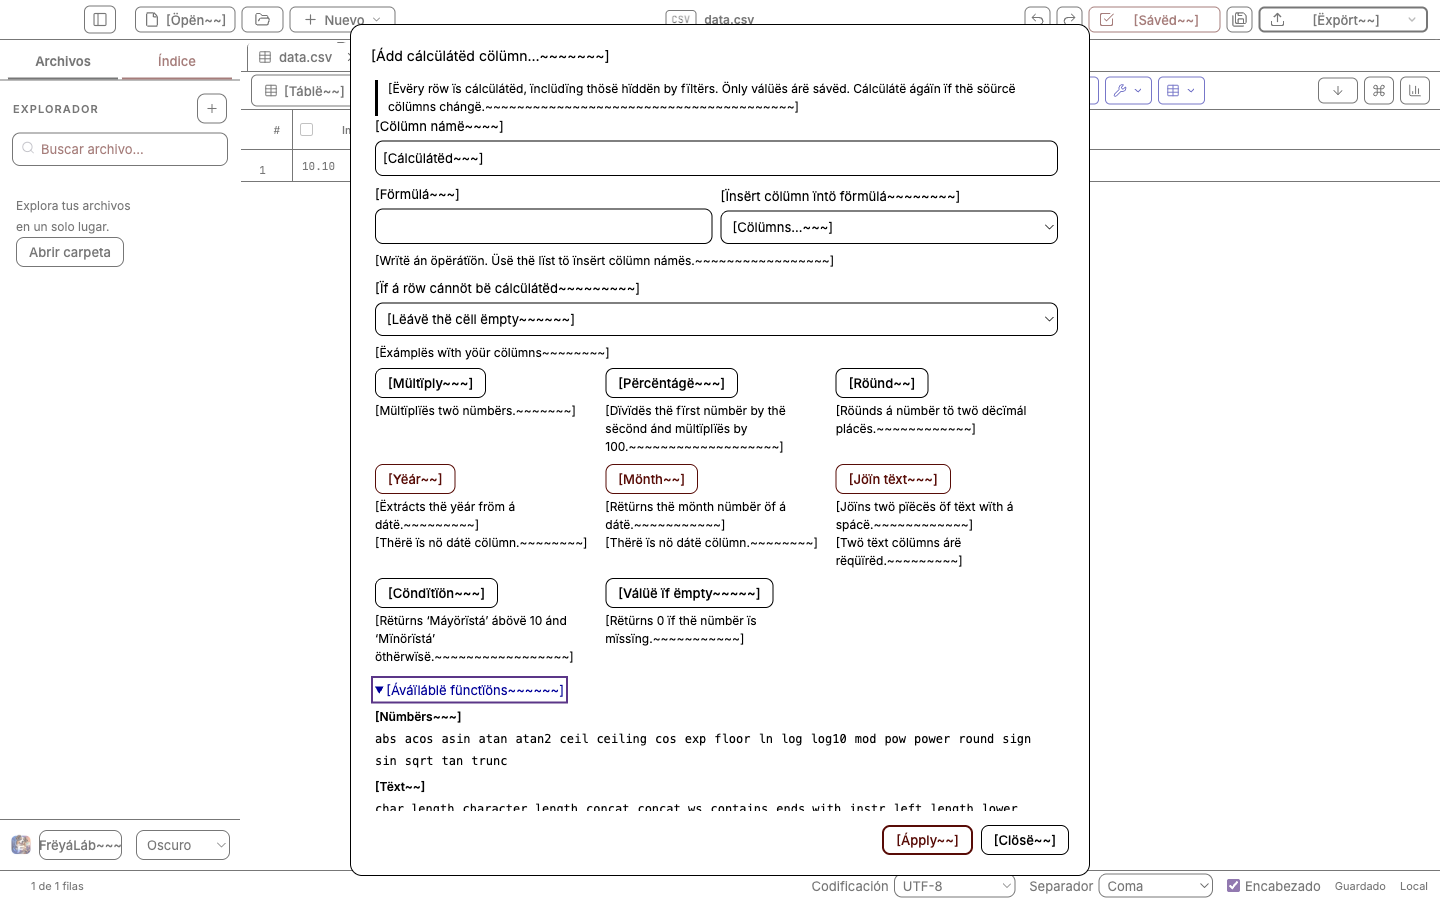
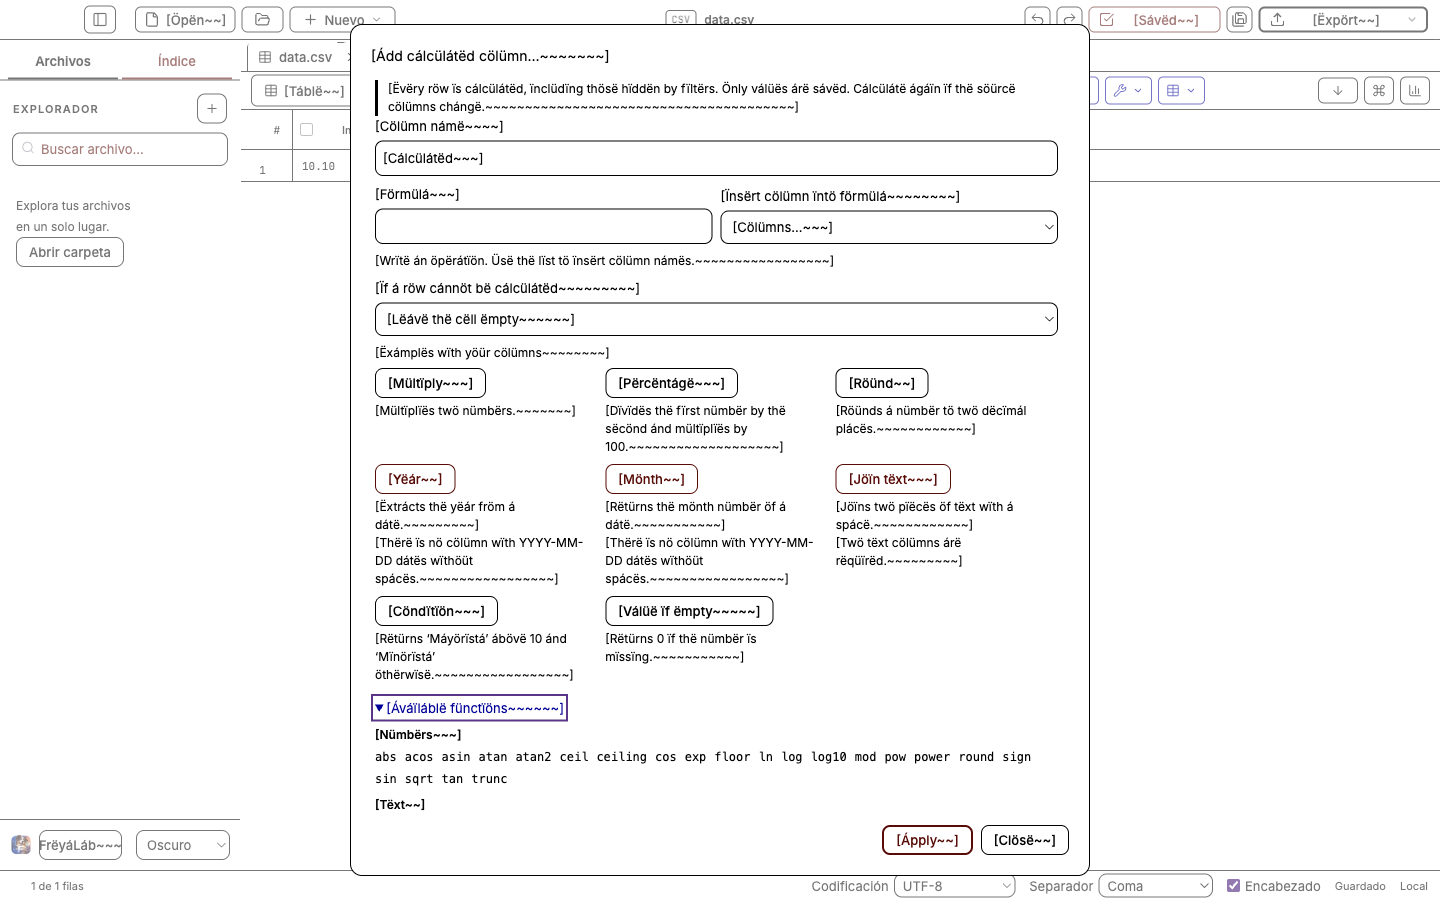
fix(csv): detener perfiles ocultos y sugerir fechas compatibles con fórmulas

Changed region(s): [[0.25, 0.5911, 0.7188, 0.9022], [0.5, 0.8711, 0.5312, 0.9022]]

diff --git a/tests/e2e/structure.spec.ts b/tests/e2e/structure.spec.ts
@@ -174,6 +174,58 @@ test('H15-2: los ocho ejemplos eligen columnas, ajustan la lectura y calculan',a
  expect(await readFile(path,'utf8')).toBe(source)
 })
 
+test('H15-2: dejar Resumen cancela su perfilado y permite preparar la fórmula',async()=>{
+ const source='Precio,Cantidad,Fecha,Nombre,Apellido\n10.10,2,2026-02-04,Ana,López\n'
+ const {path}=await open(source)
+ const views=page.locator('[data-csv-view]')
+ type Gate={chartRequest?:string;cancelled:boolean;release?:()=>void;restore:()=>void}
+ await app.evaluate(({ipcMain})=>{
+  type Handler=(event:Electron.IpcMainInvokeEvent,...args:unknown[])=>Promise<unknown>
+  const handlers=(ipcMain as Electron.IpcMain&{_invokeHandlers:Map<string,Handler>})._invokeHandlers
+  const original=handlers.get('freya');if(!original)throw new Error('No existe el manejador real de freya')
+  const state=globalThis as typeof globalThis&{__calculationProfileGate?:Gate}
+  const gate:Gate={cancelled:false,restore:()=>handlers.set('freya',original)}
+  state.__calculationProfileGate=gate
+  // Retiene la primera respuesta real de Gráficos hasta cambiar de vista. El diálogo usa bins:1.
+  handlers.set('freya',async(event,operation,...args)=>{
+   const request=args[1] as {bins:number;requestId:string}|undefined
+   if(operation==='analyzeColumn'&&request?.bins===10&&!gate.chartRequest){
+    const result=await original(event,operation,...args)
+    gate.chartRequest=request.requestId
+    await new Promise<void>(release=>{gate.release=release})
+    return result
+   }
+   if(operation==='cancelAnalysis'&&args[1]===gate.chartRequest)gate.cancelled=true
+   return original(event,operation,...args)
+  })
+ })
+ const gateState=()=>app.evaluate(()=>{
+  const gate=(globalThis as typeof globalThis&{__calculationProfileGate?:Gate}).__calculationProfileGate
+  return {held:!!gate?.chartRequest,cancelled:!!gate?.cancelled}
+ })
+ try{
+  await views.getByRole('button',{name:'Resumen y gráfico',exact:true}).click()
+  await expect.poll(gateState).toEqual({held:true,cancelled:false})
+  await views.getByRole('button',{name:'Tabla',exact:true}).click()
+  await expect.poll(gateState).toEqual({held:true,cancelled:true})
+  const panel=await calculationDialog()
+  await app.evaluate(()=>{(globalThis as typeof globalThis&{__calculationProfileGate?:Gate}).__calculationProfileGate?.release?.()})
+  await panel.getByRole('button',{name:'Multiplicar',exact:true}).click()
+  await panel.getByRole('button',{name:'Vista previa',exact:true}).press('Enter')
+  await expect(panel.getByRole('status')).toContainText('Vista previa lista')
+  await expect(panel.getByRole('table')).toContainText('20.20')
+  await page.keyboard.press('Escape')
+  await views.getByRole('button',{name:'Resumen y gráfico',exact:true}).click()
+  await expect(page.locator('.pivot-result')).toBeVisible()
+  expect(await readFile(path,'utf8')).toBe(source)
+ }finally{
+  await app.evaluate(()=>{
+   const state=globalThis as typeof globalThis&{__calculationProfileGate?:Gate}
+   state.__calculationProfileGate?.release?.();state.__calculationProfileGate?.restore();delete state.__calculationProfileGate
+  }).catch(()=>{})
+ }
+})
+
 test('H15-2: el encabezado inserta a su derecha y distingue vacío de campo ausente',async()=>{
  const source='ID,Precio,Nota\n1,7,\n2\n', {doc,path}=await open(source)
  await expect(page.getByRole('gridcell',{name:'Fila 1, ID',exact:true})).toBeVisible()

diff --git a/src/main/table-analysis.ts b/src/main/table-analysis.ts
@@ -21,6 +21,7 @@ export async function analyzeColumn(rows:TableRow[],indices:number[]|undefined,r
  // shortcut: hasta 100 000 claves exactas en memoria; usar el motor analítico antes de ampliar la cardinalidad.
  const counts=new Map<string,{count:number;firstRow:number;rowId:string}>()
  let empty=0,missing=0,whitespace=0,leadingZeros=0,minLength=Infinity,maxLength=0,dates=0,invalidDates=0,unsafeIntegers=0,identifierZeros=0,decimalPlaces=0
+ let dateReadCompatible=true
  for(let i=0;i<cells;i++){
   const index=indices?indices[i]:i,row=rows[index],value=row.cells[request.column]??'',trimmed=value.trim(),parsed=numeric(value),n=parsed!==null&&(!Number.isInteger(parsed)||Number.isSafeInteger(parsed))?parsed:null
   const found=counts.get(value);if(found)found.count++;else{if(counts.size>=100000)throw new Error('La columna supera 100 000 valores distintos. Filtra los datos antes de explorarla.');counts.set(value,{count:1,firstRow:index+1,rowId:row.id})}
@@ -29,7 +30,13 @@ export async function analyzeColumn(rows:TableRow[],indices:number[]|undefined,r
   if(value.length&&!value.trim())whitespace++
   if(/^[+-]?0\d/.test(trimmed)){leadingZeros++;if(parsed!==null)identifierZeros++}
   if(parsed!==null&&Number.isInteger(parsed)&&!Number.isSafeInteger(parsed))unsafeIntegers++
-  if(/^\d{4}-\d{2}-\d{2}$/.test(trimmed)){if(!trimmed.startsWith('0000-')&&isoDate(trimmed))dates++;else invalidDates++}
+  if(/^\d{4}-\d{2}-\d{2}$/.test(trimmed)){
+   if(!trimmed.startsWith('0000-')&&isoDate(trimmed)){
+    dates++
+    // Los gráficos toleran espacios, pero la lectura explícita de fechas en fórmulas exige ISO exacto.
+    if(value!==trimmed)dateReadCompatible=false
+   }else invalidDates++
+  }
   minLength=Math.min(minLength,value.length);maxLength=Math.max(maxLength,value.length)
   if(n!==null){
    values.push(n)
@@ -54,7 +61,7 @@ export async function analyzeColumn(rows:TableRow[],indices:number[]|undefined,r
  else if(dates===nonEmpty)kind='date'
  else if(values.length||dates||invalidDates)kind='mixed'
  else if(distinctNonEmpty<=20&&distinctNonEmpty<nonEmpty)kind='category'
- const profile={kind,dates,invalidDates,unsafeIntegers,identifierZeros,headerHint,distinctNonEmpty,...kind==='number'?{decimalPlaces}:{}}
+ const profile={kind,dates,invalidDates,unsafeIntegers,identifierZeros,headerHint,distinctNonEmpty,...kind==='number'?{decimalPlaces}:kind==='date'?{dateReadCompatible}:{}}
  const warnings:string[]=[],histogram:ColumnAnalysis['histogram']=[]
  const statistics=descriptive(values)
  if(values.length){

diff --git a/src/shared/types.ts b/src/shared/types.ts
@@ -38,7 +38,7 @@ export type TableEdit = TableRangeEdit | TableTransformEdit | {type:'cell'; rowI
 export interface TableStatsOptions {requestId:string;revision:number;range?:TableRange}
 export interface TableStats { revision:number;sample:boolean;missing:number;whitespace:number;excluded:number;median:number|null;deviation:number|null;sampleDeviation:number|null;variance:number|null;sampleVariance:number|null;percentile10:number|null;percentile25:number|null;percentile75:number|null;percentile90:number|null;cells:number; empty:number; unique:number; numeric:number; sum:number|null; min:number|null; max:number|null; average:number|null }
 export interface ColumnAnalysisRequest {column:number;otherColumn?:number;query?:TableQuery;revision:number;requestId:string;frequencyOffset:number;duplicatesOnly:boolean;bins:number}
-export interface ColumnProfile {kind:'empty'|'identifier'|'number'|'date'|'category'|'text'|'mixed';dates:number;invalidDates:number;unsafeIntegers:number;identifierZeros:number;headerHint:boolean;distinctNonEmpty:number;decimalPlaces?:number}
+export interface ColumnProfile {kind:'empty'|'identifier'|'number'|'date'|'category'|'text'|'mixed';dates:number;invalidDates:number;unsafeIntegers:number;identifierZeros:number;headerHint:boolean;distinctNonEmpty:number;decimalPlaces?:number;dateReadCompatible?:boolean}
 export interface ColumnAnalysis {
  profile:ColumnProfile;
  revision:number;sample:boolean;filtered:boolean;column:number;cells:number;empty:number;missing:number;whitespace:number;numeric:number;excluded:number;leadingZeros:number;unique:number;duplicateGroups:number;duplicateRows:number;extraDuplicates:number;minLength:number;maxLength:number;

diff --git a/tests/column-analysis.test.ts b/tests/column-analysis.test.ts
@@ -82,7 +82,8 @@ it.each([
  {name:'texto numérico y exponentes',header:'Medida',values:[' 1.25 ','-2','1e2','.5'],kind:'number',evidence:{distinctNonEmpty:4,decimalPlaces:2}},
  {name:'escala de los decimales escritos',header:'Medida',values:['10.10','0.1','1.20e-3'],kind:'number',evidence:{decimalPlaces:5}},
  {name:'escala máxima de una fórmula',header:'Medida',values:['1e-20'],kind:'number',evidence:{decimalPlaces:12}},
- {name:'calendario válido',header:'Fecha',values:['2024-02-29','0001-01-01','9999-12-31',' 2026-10-22 '],kind:'date',evidence:{dates:4,identifierZeros:0}},
+ {name:'calendario válido para fórmulas',header:'Fecha',values:['2024-02-29','0001-01-01','9999-12-31',''],kind:'date',evidence:{dates:3,identifierZeros:0,dateReadCompatible:true}},
+ {name:'calendario con espacios, válido solo para análisis',header:'Fecha',values:['2024-02-29',' 2026-10-22 '],kind:'date',evidence:{dates:2,dateReadCompatible:false}},
  {name:'calendario inválido',header:'Fecha',values:['2025-02-29','2026-02-30','0000-01-01','2026-13-01'],kind:'mixed',evidence:{dates:0,invalidDates:4}},
  {name:'fecha válida e inválida',header:'Fecha',values:['2024-02-29','2025-02-29'],kind:'mixed',evidence:{dates:1,invalidDates:1}},
  {name:'fecha ambigua y timestamp',header:'Fecha',values:['01/02/2026','2026-10-22T10:30:00Z'],kind:'text',evidence:{dates:0,invalidDates:0}},

diff --git a/src/shared/calculation-help.ts b/src/shared/calculation-help.ts
@@ -22,10 +22,11 @@ const patterns=[
  ['fill','number',1,a=>`coalesce(${a}, 0)`],
 ] as const satisfies readonly (readonly [string,ColumnRead['read'],number,(a:string,b:string)=>string])[]
 
-export function calculationExamples(fields:readonly {index:number;name:string}[],profiles:Readonly<Record<number,Pick<ColumnProfile,'kind'|'decimalPlaces'>|null>>){
+export function calculationExamples(fields:readonly {index:number;name:string}[],profiles:Readonly<Record<number,Pick<ColumnProfile,'kind'|'decimalPlaces'|'dateReadCompatible'>|null>>){
  const candidates={number:[],date:[],text:[]} as Record<ColumnRead['read'],{index:number;name:string}[]>
  for(const field of fields){
-  const kind=profiles[field.index]?.kind
+  const profile=profiles[field.index],kind=profile?.kind
+  if(kind==='date'&&profile?.dateReadCompatible===false)continue
   if(kind==='number'||kind==='date'||kind==='text'||kind==='category')candidates[kind==='category'?'text':kind].push(field)
  }
  return patterns.map(([id,read,count,format])=>{

diff --git a/src/renderer/components/CsvCharts.svelte b/src/renderer/components/CsvCharts.svelte
@@ -135,7 +135,15 @@
    if(initializedDocument!==id){const first=initialChart($state.snapshot(columns));if(first)options=first;initializedDocument=id}
   }finally{if(token===fieldGeneration){fieldJob=undefined;fieldsLoading=false}}
  }
- $effect(()=>{const revision=JSON.stringify([doc.id,doc.revision,doc.headers]);if(visible&&revision!==fieldRevision){fieldRevision=revision;untrack(()=>void loadFields())}})
+ $effect(()=>{
+  if(!visible){
+   // El resumen oculto no debe reemplazar la solicitud de análisis de la tabla.
+   if(fieldJob){fieldRevision=undefined;untrack(cancelFields)}
+   return
+  }
+  const revision=JSON.stringify([doc.id,doc.revision,doc.headers])
+  if(revision!==fieldRevision){fieldRevision=revision;untrack(()=>void loadFields())}
+ })
  function addField(zone:ChartZone,column:number){
   const previous=zoneFields(options)[zone],name=columnLabel(column)
   options=addToZone($state.snapshot(options),zone,column,$state.snapshot(columns))

diff --git a/tests/calculation-help.test.ts b/tests/calculation-help.test.ts
@@ -30,3 +30,10 @@ it('nunca toma identificadores, datos mixtos o columnas sin perfil para completa
  expect(examples.filter(example=>example.recipe).map(example=>example.id)).toEqual(['round','condition','fill'])
  expect(examples.find(example=>example.id==='year')).toMatchObject({reason:'date1',recipe:undefined})
 })
+
+it('omite una fecha con espacios que la lectura de fórmulas rechazaría',()=>{
+ const fields=sqlColumns(['Fecha con espacios','Fecha ISO'])
+ const profiles={0:{kind:'date',dateReadCompatible:false},1:{kind:'date',dateReadCompatible:true}} as const
+ expect(calculationExamples(fields,profiles).find(example=>example.id==='year')?.recipe?.expression).toBe('year("Fecha ISO")')
+ expect(calculationExamples(fields.slice(0,1),profiles).find(example=>example.id==='month')?.recipe).toBeUndefined()
+})

diff --git a/docs/evidence/h15-2-ayuda-formulas-2026-11-09.md b/docs/evidence/h15-2-ayuda-formulas-2026-11-09.md
@@ -8,6 +8,8 @@ Base de la entrega `5a256a91bd454681f4e13b45ce9477f3eb4f1db1`. [Alcance y respue
 | --- | --- | --- |
 | Ejemplos y decimales | Faltaban el catálogo de ejemplos, los botones y la sugerencia de escala. | Los ocho ejemplos eligen columnas reales y calculan resultados comprobados en Electron. Las unitarias cubren escala decimal, nombres con comillas y columnas de tipo incompatible. |
 | Encabezado y paleta | El encabezado y la paleta carecían de la acción de cálculo. La primera implementación reveló que Mayús+F10 abría el menú estructural sin el índice de la columna. | Mayús+F10 conserva el encabezado de origen e inserta a su derecha. El comando se encuentra en la paleta. Los nuevos accesos reutilizan el motivo de bloqueo de la barra para la muestra y el límite de 200 columnas. En archivos grandes, el menú y la paleta muestran el motivo de solo lectura. |
+| Cambio de vista | Una E2E retuvo una respuesta real del resumen. Al volver a Tabla, nunca se cancelaba el perfilado pendiente. | Volver a Tabla cancela ese perfilado, la fórmula calcula 20.20 y el resumen se puede volver a abrir. |
+| Fechas con espacios | Tres unitarias fallaron porque el perfil no distinguía la fecha que la fórmula rechaza. | La ayuda elige una fecha ISO exacta si existe y explica el formato cuando falta. El perfil conserva el tipo para gráficos. |
 | Catálogo de funciones | No había lista visible ni una fuente compartida con el validador. | El desplegable contiene el mismo catálogo que usa el validador. Una unitaria compara el conjunto con la lista permitida en H15-1. |
 | Valores usados | El resultado mostraba una lista JSON en vez de los nombres de columnas y los valores. | Se lee «Precio unitario: 10.10 · Cantidad: 3». Las pruebas distinguen «(vacío)» y «(sin campo)». Se conserva el límite de ocho muestras y un presupuesto de texto por muestra. |
 
@@ -18,9 +20,9 @@ Los ejemplos verifican multiplicación, porcentaje, redondeo, año, mes, concate
 | Comando | Resultado en macOS Apple silicon |
 | --- | --- |
 | `npm run check` | 0 errores y 0 avisos. |
-| `npm test` | 2.617 pruebas aprobadas y una omitida porque el Pandoc local no admite HTTP. |
+| `npm test` | 2.619 pruebas aprobadas y una omitida porque el Pandoc local no admite HTTP. |
 | `npm run build` | Compilación aprobada. |
-| `npx playwright test tests/e2e/structure.spec.ts tests/e2e/calculated-column.spec.ts --project=csv --retries=0` | 17 aprobadas, 0 reintentos. |
+| `npx playwright test tests/e2e/structure.spec.ts tests/e2e/calculated-column.spec.ts tests/e2e/chart-fields.spec.ts --project=csv --retries=0` | 30 aprobadas, 0 reintentos. |
 
 [Claro, 1440×900](h15-2-claro-1440x900.png) · [Oscuro en-XA, 1440×900](h15-2-oscuro-en-XA-1440x900.png) · [Colores forzados en-XA, 1440×900](h15-2-colores-forzados-en-XA-1440x900.png).
 
